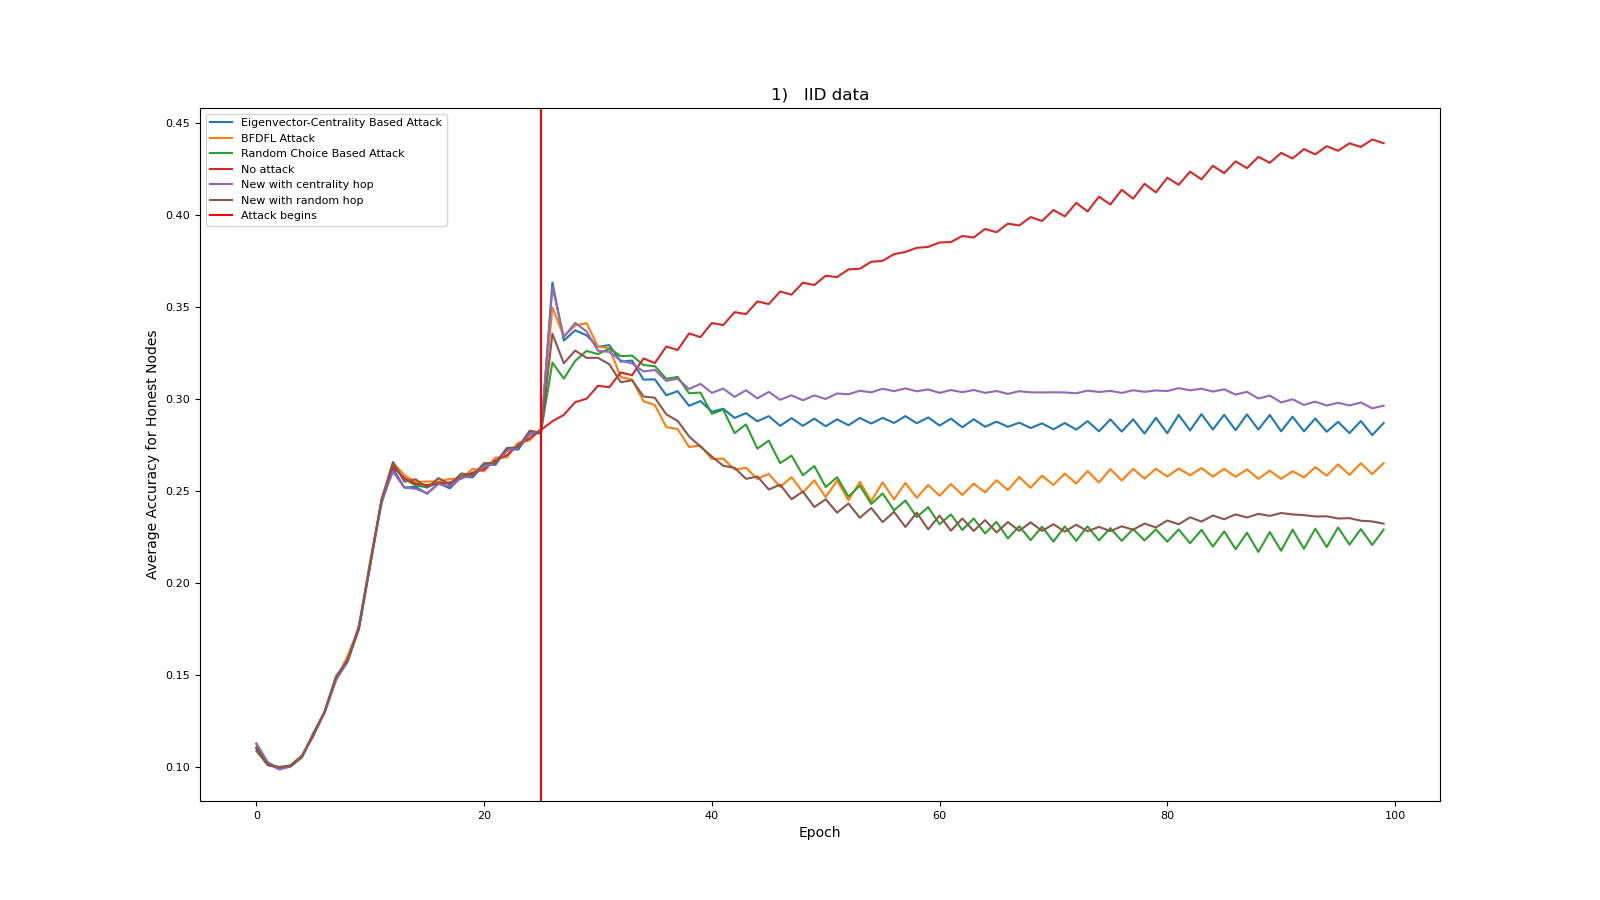
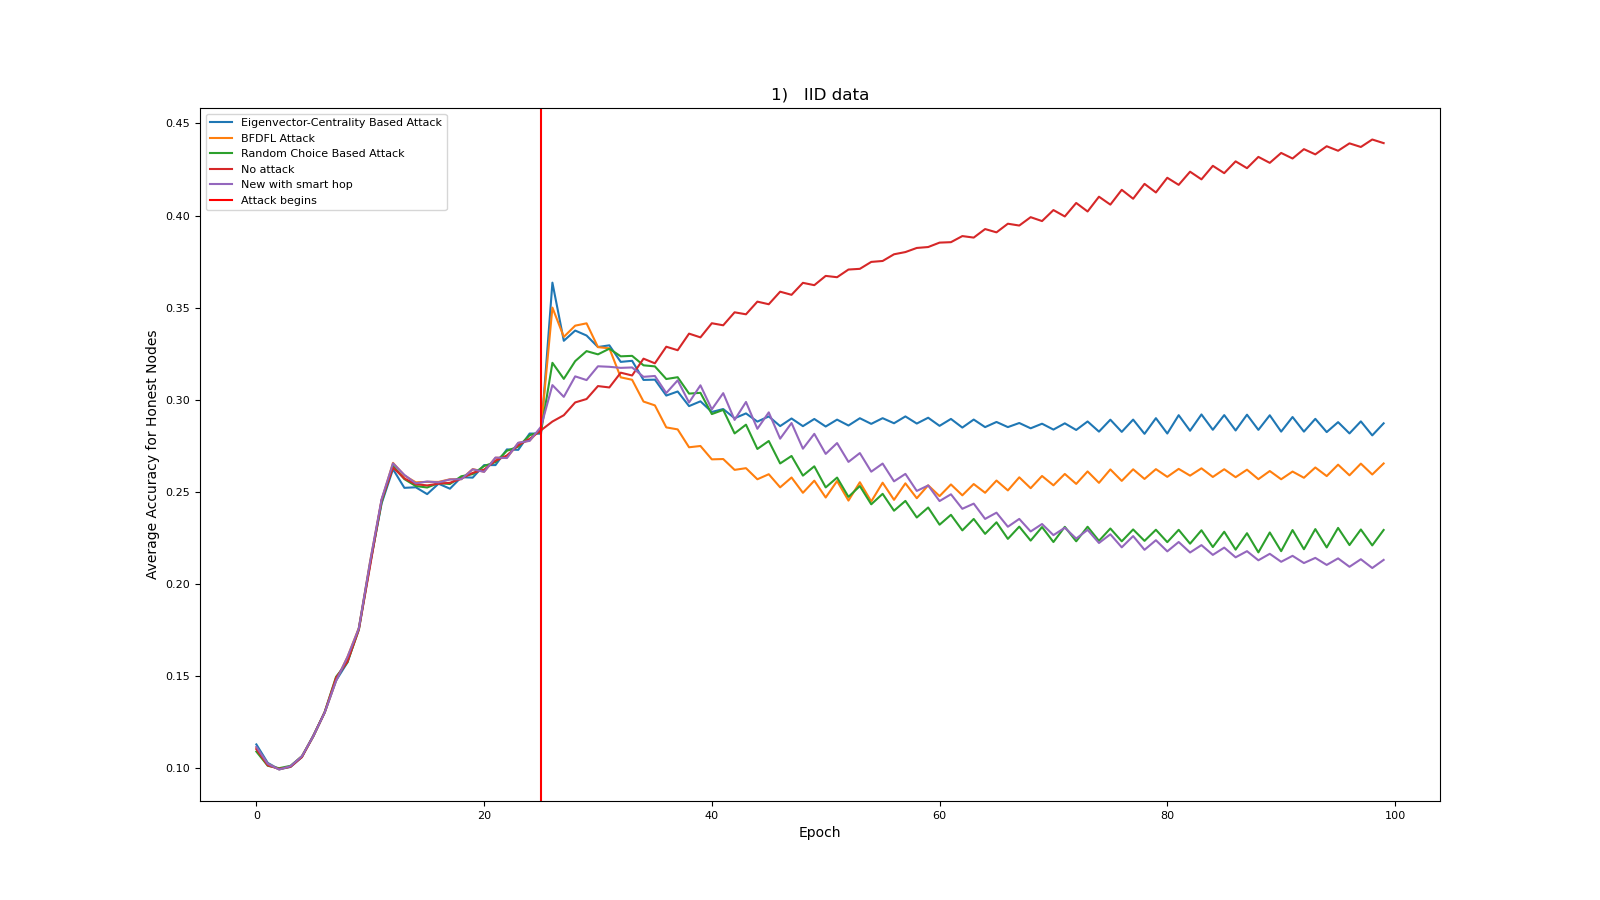
finish all

diff --git a/code/simulation_code/plot_data.py b/code/simulation_code/plot_data.py
@@ -1140,16 +1140,13 @@ def plot_new_schemes(network_type, iid_type, label_in_plot = 0):
     dataset_name = 'fmnist' # Remember to change for CIFAR10
     dir_data = '../../data/full_decentralized/%s/%s/' % (dataset_name, network_type)
     dir_plots = '../../data/full_decentralized/finalized_plots/'
-    adv_schemes = {'score_cent_dist_manual_weight_010': [], 'least_overlap_area': [], 'random_nodes': [], 'none': [], 'MaxSpANFL_w_centrality_hopping': [], 'MaxSpANFL_w_random_hopping': [], 'MaxSpANFL_w_smart_hopping': []} # All
+    adv_schemes = {'score_cent_dist_manual_weight_010': [], 'least_overlap_area': [], 'random_nodes': [], 'none': [], 'MaxSpANFL_w_smart_hopping': []} # All
     # adv_schemes = {'least_overlap_area': [], 'random_nodes': [], 'none': []} # Missing eigenv 
     # adv_schemes = {'score_cent_dist_manual_weight_010': [], 'least_overlap_area': [], 'none': []} # Missibg random
     n_clients = int((re.search('_c_(\d+)', network_type)).group(1))
     adv_frac = 0.2
     adv_number = int(float(n_clients) * adv_frac)
-    if 'non_iid' in iid_type:
-        seed_range = 20
-    else:
-        seed_range = 20
+    seed_range = 20
     pwr = 100
     # First get the data for none
     none_avail = True
@@ -1181,6 +1178,8 @@ def plot_new_schemes(network_type, iid_type, label_in_plot = 0):
                 for i, row in enumerate(reader):
                     if i == 0:
                         attacked_nodes = ast.literal_eval(row[1])
+                        if type(attacked_nodes) == type((1,)):
+                            attacked_nodes = attacked_nodes[0]
                         attacked_nodes = [int(_) for _ in attacked_nodes]
                     else:
                         acc = ast.literal_eval(row[1])
@@ -1210,7 +1209,7 @@ def plot_new_schemes(network_type, iid_type, label_in_plot = 0):
     ax.set_ylabel('Average Accuracy for Honest Nodes', fontsize=10)
     ax.tick_params(axis='both', which='major', labelsize=8)
     ax.tick_params(axis='both', which='minor', labelsize=8)
-    ax.legend(fontsize=8)
+    # ax.legend(fontsize=8)
     ax.grid(True)
     network_name = ''
     if 'dir_geom_graph' in network_type and n_clients != 20:
@@ -1229,60 +1228,66 @@ def plot_new_schemes(network_type, iid_type, label_in_plot = 0):
     ax.grid()
     # plt.savefig(dir_plots + 'plot' + '_' + dataset_name + '_' + network_type + '_' + iid_type + '_FGSM_advs_%d_adv_pow_%d_atk_time_25_seed' % (adv_number, pwr) +'.png')
     print(title, [(i, adv_schemes[i][-1]) for i in adv_schemes.keys()])
-    plt.show()
     plt.savefig('%s_%s_plot.png' % (network_type, iid_type_title))
     return adv_schemes, fig, ax, title
 
-def create_composite_figure(graph_iid_tuples):    
+def create_composite_figure(graph_iid_tuples):
     # Define the color scheme for the lines
     color_scheme = {
         'No attack': 'blue',
         'Eigenvector-Centrality Based Attack': 'green',
         'BFDFL Attack': 'black',  # Assuming this is the BLDFL attack
         'Random Choice Based Attack': 'purple',
+        'New with smart hop': 'orange',
         'Attack begins': 'red'  # Assuming this is the vertical line you mentioned
     }
-    
+
     # Create a figure with subplots and a shared legend
-    fig, axs = plt.subplots(1, 4, figsize=(20, 4))  # Adjust the size as needed
-    
+    fig, axs = plt.subplots(2, 3, figsize=(15, 8))  # Adjust the size as needed
+
     # To collect legend handles
-    legend_handles = []  
+    legend_handles = []
     custom_legend_handles = []
+
     # Iterate over each graph_iid_tuple and plot in the respective subplot
     for i, (network_type, iid_type) in enumerate(graph_iid_tuples):
         # Generate each subplot
         _, fig_single, ax_single, title_plot = plot_new_schemes(network_type, iid_type, i)
-        
+
         # Get the lines from the single plot and get the legend handles
         lines, labels = ax_single.get_legend_handles_labels()
+
+        if i % 3 == 0:
+            axs[i // 3, i % 3].set_ylabel('Average Accuracy for\nHonest Nodes %', fontsize=12)
+
         if i == 0:
-            axs[i].set_ylabel('Average Accuracy for\nHonest Nodes %', fontsize=12)
             legend_handles.extend(lines)
-            
+
         # Now, let's plot the same lines on the subplot axis with the specified colors
         for line in lines:
             if i == 0:
                 handle = Line2D([], [], color=color_scheme[line.get_label()], label=line.get_label())
                 custom_legend_handles.append(handle)
+
             print(color_scheme[line.get_label()])
             line_color = color_scheme.get(line.get_label(), color_scheme[line.get_label()])  # Default to black if not specified
-            axs[i].plot(line.get_xdata(), [100 * x for x in line.get_ydata()], label=line.get_label(), color=line_color)
+            axs[i // 3, i % 3].plot(line.get_xdata(), [100 * x for x in line.get_ydata()], label=line.get_label(), color=line_color)
 
         # Set the same x and y labels and title
-        axs[i].set_xlabel('Global Epoch', fontsize=12)
-        axs[i].set_title(title_plot, fontsize=12)
-        axs[i].set_xticks([0, 20, 40, 60, 80, 100])
+        axs[i // 3, i % 3].set_xlabel('Global Epoch', fontsize=12)
+        axs[i // 3, i % 3].set_title(title_plot, fontsize=12)
+        axs[i // 3, i % 3].set_xticks([0, 20, 40, 60, 80, 100])
+
         # Set the same grid
-        axs[i].grid(True)
-        
+        axs[i // 3, i % 3].grid(True)
+
         # Set the same limits on all subplots, if needed
         if 'Non' in title_plot:
-            axs[i].set_yticks([10, 20, 30, 40, 50])
-            axs[i].set_ylim([7, 41])
+            axs[i // 3, i % 3].set_yticks([10, 20, 30, 40, 50])
+            axs[i // 3, i % 3].set_ylim([7, 41])
         else:
-            axs[i].set_yticks([10, 20, 30, 40, 50])
-            axs[i].set_ylim([10, 55])
+            axs[i // 3, i % 3].set_yticks([10, 20, 30, 40, 50])
+            axs[i // 3, i % 3].set_ylim([10, 55])
 
     # Create a shared legend above the subplots
     order_legend = [3, 0, 2, 1, 4]
@@ -1296,7 +1301,6 @@ def create_composite_figure(graph_iid_tuples):
     # Save the composite figure
     plt.savefig('composite_figure.png', dpi=300, bbox_inches='tight')
     plt.show()  # If you want to display the figure as well
-    
 
 def calculate_attack_gain_connectivity(dir_names):
     iid_types = ('iid', 'non_iid')
@@ -1694,7 +1698,7 @@ def plot_timing_attack(dir_name):
     fig.legend(handles, labels, loc='upper center', ncol=3)
     plt.show()
 
-
+    
 def get_aver_dist_diff_graphs(dir_with_data):
     with open('dist_vals.txt', 'w') as distance_file:
         distance_file.write('Graph Type                      ; Eigenvector Centrality; MaxSpanFL; Random Nodes')
@@ -1712,9 +1716,14 @@ def get_aver_dist_diff_graphs(dir_with_data):
             distance_file.write(f'\n{graph:<40}  {eig_dist:.4f};          {least_overlap_dist:.4f};      {rand_dist:.4f}')
 
 if __name__ == '__main__':
-    snap_graph = 'SNAP_Cisco_c_28_type_g20_seed_0.txt'
-    new_adj = make_graph_strongly_connected_and_update_matrix(snap_graph)
-    print(new_adj)
+    # plot_new_schemes('ER_graph_c_25_p_01', 'iid')
+    create_composite_figure([('dir_geom_graph_c_25_type_2d_r_02', 'iid'),
+                             ('dir_geom_graph_c_25_type_2d_r_02', 'non_iid'),
+                             ('ER_graph_c_25_p_01', 'iid'), 
+                             ('ER_graph_c_25_p_01', 'non_iid'), 
+                             ('pref_attach_graph_c_25_type_dense', 'iid'), 
+                             ('pref_attach_graph_c_25_type_dense', 'non_iid')])
+    
     #plot_timing_attack('dir_geom_graph_c_25_type_2d_r_02')
     #for n_dim in [3, 5, 8]:
     #    for seed in range(1):
@@ -1732,11 +1741,11 @@ if __name__ == '__main__':
     #                                    'ER_graph_c_25_p_03',
     #                                    'ER_graph_c_25_p_05'])
     #plot_new_schemes('pref_attach_graph_c_25_type_sparse', 'iid')
-    plots_baseline = [('dir_geom_graph_c_25_type_2d_r_02', 'iid'), 
-                      ('pref_attach_graph_c_25_type_dense_3', 'iid'),
-                    ]
+    # plots_baseline = [('dir_geom_graph_c_25_type_2d_r_02', 'iid'), 
+    #                   ('pref_attach_graph_c_25_type_dense_3', 'iid'),
+    #                ]
     # create_composite_figure(plots_baseline)
-    plot_new_schemes('dir_geom_graph_c_25_type_2d_r_06', 'iid')
+    # plot_new_schemes('dir_geom_graph_c_25_type_2d_r_06', 'iid')
     # measure_avg_dist_diff_schemes('WS_graph_c_25_p_05_k_4')
     # get_aver_dist_diff_graphs('../../data/full_decentralized/fmnist/')
     # make_graphs()    

diff --git a/code/simulation_code/full_decentralized_3.py b/code/simulation_code/full_decentralized_3.py
@@ -27,9 +27,9 @@ from nn_FL_de_cent import *
 from neural_net_architectures import *
 # Device configuration
 # Always check first if GPU is avaialble
-device_used = torch.device('cuda:0' if torch.cuda.is_available() else 'cpu')
+device_used = torch.device('cuda:1' if torch.cuda.is_available() else 'cpu')
 # If CUDA is not avaialbe, print message that CPU will be used
-if device_used != torch.device('cuda:0'):
+if device_used != torch.device('cuda:1'):
     print(f'CUDA not available, have to use {device_used}')
 
 start_time = time.time()
@@ -54,7 +54,7 @@ graph_type_used = graph_type[4]
 # This is the source for network topology
 
 # ADJUSTABLE #####
-designated_clients = 10
+designated_clients = 25
 
 # ER
 if graph_type_used == 'ER':
@@ -76,7 +76,7 @@ elif graph_type_used == 'k_out':
 # PREF_ATTACH
 elif graph_type_used == 'pref_attach':
     pref_attach_configs = ('sparse', 'medium', 'dense', 'dense_3')
-    config_used = 0
+    config_used = 2
     data_dir_name = dir_data + '%s_graph_c_%d_type_%s/' % (graph_type_used, designated_clients, pref_attach_configs[config_used])
     network_topology = '%s_graph_c_%d_type_%s_seed_%d.txt' % (graph_type_used, designated_clients, pref_attach_configs[config_used], seed)
 # WS
@@ -154,7 +154,7 @@ attack = attacks[0]                             # Always start with no attack (a
 adv_pow = 0                                     # Power of the attack
 adv_percent = 0.0                               # Percentage of adversaries
 hop_distance = int(0.05 * N_CLIENTS)
-# adv_percent /= 10                             # If below 10%
+adv_percent /= 10                             # If below 10%
 adv_number = int(adv_percent * N_CLIENTS)       # Number of adversaries
 # adv_list = list(range(adv_number))
 # adv_list = random.sample(list(range(N_CLIENTS)), adv_number) # Choose the adversaries at random

diff --git a/code/simulation_code/full_decentralized_1.py b/code/simulation_code/full_decentralized_1.py
@@ -50,11 +50,11 @@ aggregation_mechanism = aggreg_schemes[1]
 dir_networks = '../../data/full_decentralized/network_topologies'
 dir_data = '../../data/full_decentralized/%s/' % dataset_name
 graph_type = ('ER', 'dir_scale_free', 'dir_geom', 'k_out', 'pref_attach', 'SNAP_Cisco', 'WS_graph', 'hypercube_graph')
-graph_type_used = graph_type[2]
+graph_type_used = graph_type[4]
 # This is the source for network topology
 
 # ADJUSTABLE #####
-designated_clients = 10
+designated_clients = 25
 
 # ER
 if graph_type_used == 'ER':
@@ -76,7 +76,7 @@ elif graph_type_used == 'k_out':
 # PREF_ATTACH
 elif graph_type_used == 'pref_attach':
     pref_attach_configs = ('sparse', 'medium', 'dense', 'dense_3')
-    config_used = 2
+    config_used = 1
     data_dir_name = dir_data + '%s_graph_c_%d_type_%s/' % (graph_type_used, designated_clients, pref_attach_configs[config_used])
     network_topology = '%s_graph_c_%d_type_%s_seed_%d.txt' % (graph_type_used, designated_clients, pref_attach_configs[config_used], seed)
 # WS
@@ -154,7 +154,7 @@ attack = attacks[0]                             # Always start with no attack (a
 adv_pow = 0                                     # Power of the attack
 adv_percent = 0.0                               # Percentage of adversaries
 hop_distance = int(0.05 * N_CLIENTS)
-# adv_percent /= 10                             # If below 10%
+adv_percent /= 10                             # If below 10%
 adv_number = int(adv_percent * N_CLIENTS)       # Number of adversaries
 # adv_list = list(range(adv_number))
 # adv_list = random.sample(list(range(N_CLIENTS)), adv_number) # Choose the adversaries at random

diff --git a/code/simulation_code/full_decentralized_5.py b/code/simulation_code/full_decentralized_5.py
@@ -54,7 +54,7 @@ graph_type_used = graph_type[4]
 # This is the source for network topology
 
 # ADJUSTABLE #####
-designated_clients = 10
+designated_clients = 25
 
 # ER
 if graph_type_used == 'ER':
@@ -76,7 +76,7 @@ elif graph_type_used == 'k_out':
 # PREF_ATTACH
 elif graph_type_used == 'pref_attach':
     pref_attach_configs = ('sparse', 'medium', 'dense', 'dense_3')
-    config_used = 2
+    config_used = 3
     data_dir_name = dir_data + '%s_graph_c_%d_type_%s/' % (graph_type_used, designated_clients, pref_attach_configs[config_used])
     network_topology = '%s_graph_c_%d_type_%s_seed_%d.txt' % (graph_type_used, designated_clients, pref_attach_configs[config_used], seed)
 # WS
@@ -154,7 +154,7 @@ attack = attacks[0]                             # Always start with no attack (a
 adv_pow = 0                                     # Power of the attack
 adv_percent = 0.0                               # Percentage of adversaries
 hop_distance = int(0.05 * N_CLIENTS)
-# adv_percent /= 10                             # If below 10%
+adv_percent /= 10                             # If below 10%
 adv_number = int(adv_percent * N_CLIENTS)       # Number of adversaries
 # adv_list = list(range(adv_number))
 # adv_list = random.sample(list(range(N_CLIENTS)), adv_number) # Choose the adversaries at random

diff --git a/code/simulation_code/full_decentralized_0.py b/code/simulation_code/full_decentralized_0.py
@@ -50,7 +50,7 @@ aggregation_mechanism = aggreg_schemes[1]
 dir_networks = '../../data/full_decentralized/network_topologies'
 dir_data = '../../data/full_decentralized/%s/' % dataset_name
 graph_type = ('ER', 'dir_scale_free', 'dir_geom', 'k_out', 'pref_attach', 'SNAP_Cisco', 'WS_graph', 'hypercube_graph')
-graph_type_used = graph_type[2]
+graph_type_used = graph_type[4]
 # This is the source for network topology
 
 # ADJUSTABLE #####
@@ -76,7 +76,7 @@ elif graph_type_used == 'k_out':
 # PREF_ATTACH
 elif graph_type_used == 'pref_attach':
     pref_attach_configs = ('sparse', 'medium', 'dense', 'dense_3')
-    config_used = 2
+    config_used = 1
     data_dir_name = dir_data + '%s_graph_c_%d_type_%s/' % (graph_type_used, designated_clients, pref_attach_configs[config_used])
     network_topology = '%s_graph_c_%d_type_%s_seed_%d.txt' % (graph_type_used, designated_clients, pref_attach_configs[config_used], seed)
 # WS

diff --git a/code/simulation_code/nn_FL_de_cent.py b/code/simulation_code/nn_FL_de_cent.py
@@ -809,12 +809,13 @@ def calc_average_num_hops(dir_networks):
 if __name__ == "__main__":
     # Graph properties analysis
     network_dir = '../../data/full_decentralized/network_topologies/'
-    # network_names = find_network_names(network_dir)
+    network_names = find_network_names(network_dir)
+    print(network_names)
     # network_props = process_networks(network_names, network_dir, calculate_network_properties)
     # save_graph_props_to_csv(network_props)
     # Define the parameter values to iterate over
     # Hop num analysis
-    calc_average_num_hops(network_dir)
+    # calc_average_num_hops(network_dir)
     
     
 # Increase number of epochs 3-5 times the current one, check different learning rates

diff --git a/code/simulation_code/full_decentralized_6.py b/code/simulation_code/full_decentralized_6.py
@@ -27,9 +27,9 @@ from nn_FL_de_cent import *
 from neural_net_architectures import *
 # Device configuration
 # Always check first if GPU is avaialble
-device_used = torch.device('cuda:0' if torch.cuda.is_available() else 'cpu')
+device_used = torch.device('cuda:2' if torch.cuda.is_available() else 'cpu')
 # If CUDA is not avaialbe, print message that CPU will be used
-if device_used != torch.device('cuda:0'):
+if device_used != torch.device('cuda:2'):
     print(f'CUDA not available, have to use {device_used}')
 
 start_time = time.time()

diff --git a/code/simulation_code/full_decentralized_4.py b/code/simulation_code/full_decentralized_4.py
@@ -76,7 +76,7 @@ elif graph_type_used == 'k_out':
 # PREF_ATTACH
 elif graph_type_used == 'pref_attach':
     pref_attach_configs = ('sparse', 'medium', 'dense', 'dense_3')
-    config_used = 1
+    config_used = 3
     data_dir_name = dir_data + '%s_graph_c_%d_type_%s/' % (graph_type_used, designated_clients, pref_attach_configs[config_used])
     network_topology = '%s_graph_c_%d_type_%s_seed_%d.txt' % (graph_type_used, designated_clients, pref_attach_configs[config_used], seed)
 # WS

diff --git a/code/simulation_code/full_decentralized_2.py b/code/simulation_code/full_decentralized_2.py
@@ -50,7 +50,7 @@ aggregation_mechanism = aggreg_schemes[1]
 dir_networks = '../../data/full_decentralized/network_topologies'
 dir_data = '../../data/full_decentralized/%s/' % dataset_name
 graph_type = ('ER', 'dir_scale_free', 'dir_geom', 'k_out', 'pref_attach', 'SNAP_Cisco', 'WS_graph', 'hypercube_graph')
-graph_type_used = graph_type[2]
+graph_type_used = graph_type[4]
 # This is the source for network topology
 
 # ADJUSTABLE #####
